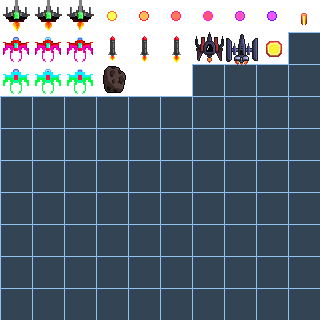
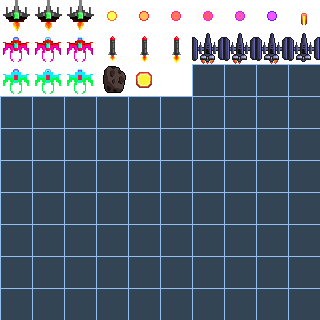
lmao

Changed region(s): [[0.5938, 0.0938, 1.0, 0.2188], [0.4062, 0.2188, 0.5, 0.2812]]

diff --git a/src/sandbox.ts b/src/sandbox.ts
@@ -5,7 +5,7 @@ import { Asteroid } from './actors/asteroid'
 import { Console } from './actors/console'
 import { Ship } from './actors/ship'
 import Config from './config'
-import { Images } from './resources'
+import { gameSheet, Images } from './resources'
 
 const rootDiv = document.getElementById('rootDiv') as HTMLDivElement
 
@@ -60,6 +60,14 @@ export class Sandbox extends ex.Scene {
 	}
 
 	private simulate() {
+		let isLefton = this.gpio[0]
+		let isRighton = this.gpio[1]
+		let newSprite = ex.Animation.fromSpriteSheet(
+			gameSheet,
+			[19],
+			100,
+			ex.AnimationStrategy.Loop,
+		)
 		const gpio = this.gpio
 		Function(`
 			'use strict'
@@ -69,6 +77,18 @@ export class Sandbox extends ex.Scene {
 		`).bind({
 			write(id: number, value: number) {
 				gpio[id] = value
+				if (id === 0){
+					if (value)
+						Config.currentStripe = 17;
+					else
+						Config.currentStripe = 19;
+				}
+				if (id === 1){
+					if (value)
+						Config.currentStripe = 18;
+					else
+						Config.currentStripe = 19;
+				}
 			},
 			read(id: number) {
 				return gpio[id]

diff --git a/src/actors/ship.ts b/src/actors/ship.ts
@@ -38,7 +38,7 @@ export class Ship extends ex.Actor {
 	}
 
 	onInitialize(engine: ex.Engine) {
-		this.throttleFire = throttle(this.fire, Config.playerFireThrottle)
+		this.throttleFire = throttle(this.	fire, Config.playerFireThrottle)
 		this.on('precollision', (evt) => this.onPreCollision(evt))
 
 		// Keyboard
@@ -56,7 +56,7 @@ export class Ship extends ex.Actor {
 		// Get animation
 		const anim = ex.Animation.fromSpriteSheet(
 			gameSheet,
-			[0, 1, 2],
+			[19],
 			100,
 			ex.AnimationStrategy.Loop,
 		)
@@ -96,6 +96,17 @@ export class Ship extends ex.Actor {
 			animManager.play(this.explode, this.pos)
 			Sounds.explodeSound.play()
 			this.kill()
+		}
+
+		if (Config.currentStripe == 17) {
+			const anim = ex.Animation.fromSpriteSheet(
+				gameSheet,
+				[17],
+				100,
+				ex.AnimationStrategy.Loop,
+			)
+			anim.scale = new ex.Vector(4, 4)
+			this.graphics.use(anim)		
 		}
 
 		// Keep player in the viewport

diff --git a/src/config.ts b/src/config.ts
@@ -17,6 +17,7 @@ const Config = {
 	consoleWidth: 700,
 	consoleHeight: 100,
 	totalHp: 100,
+	currentStripe: 19,
 }
 
 export default Config
